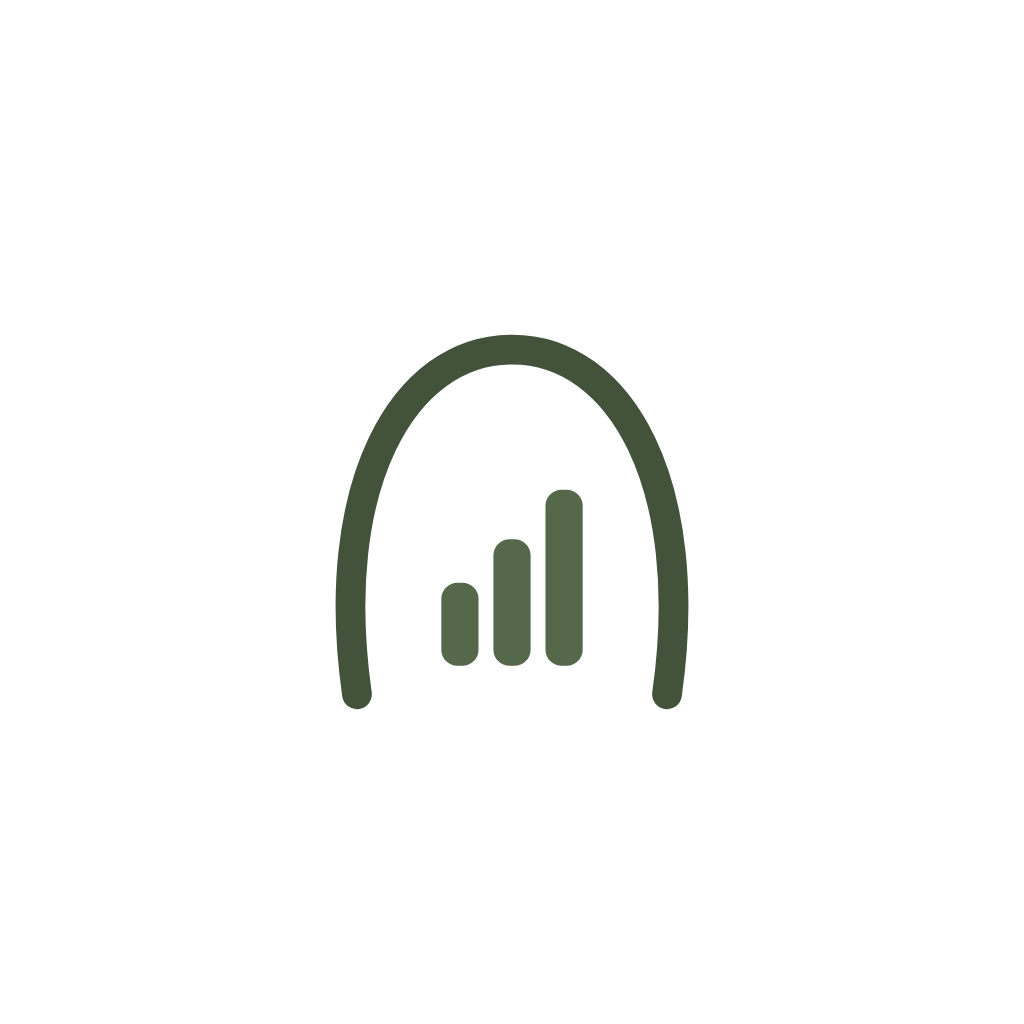
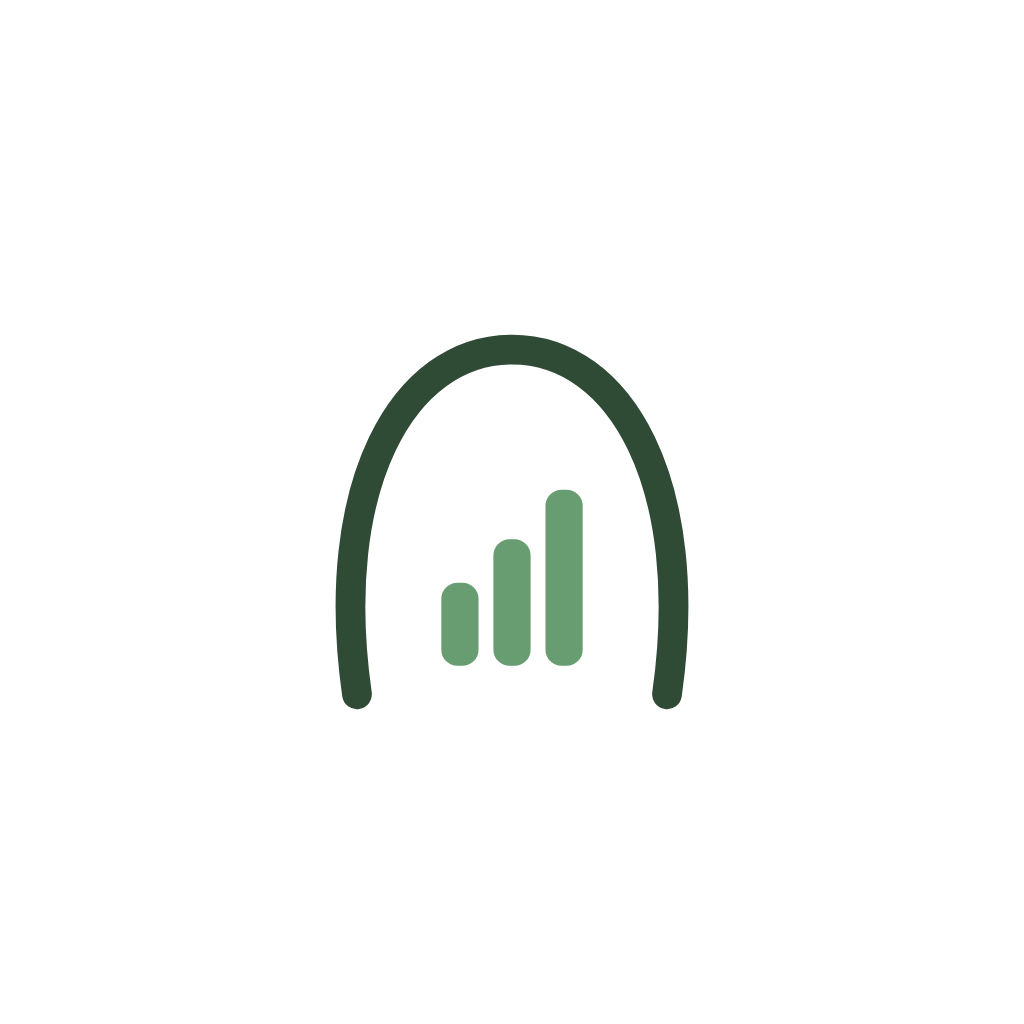
Adopter le vert #689d71 et ses deux complémentaires
Le vert demandé ne porte du texte blanc qu'à 3,16:1 : suffisant pour un
élément graphique, insuffisant pour du texte. Il garde donc les surfaces où il
se voit le plus — barre d'en-tête, anneau, barres de progression, pastilles,
dégradé — la barre passant à de l'encre foncée (4,91:1), et une seconde nuance
de la même teinte, #4a7251 (5,50:1), prend les boutons pleins et le bouton
« C'est fait ».

Les deux complémentaires sont les complémentaires partagées exactes du vert :
même saturation, même clarté, teintes à 280° et 340° contre 130°, puis
assombries juste assez pour porter du blanc à 4,6:1. Elles ne décorent pas au
hasard, chacune a un rôle : la prune #8b689c marque les jalons (objectif
atteint, records, objectifs de la période), la framboise #9b6678 marque
l'instant présent (bloc « maintenant », jour courant dans la frise, série en
cours). Un badge vert sur une ligne verte ne ressortait pas ; en framboise, si.

Les courbes gardent leur palette de séries, validée indépendamment de la
marque. Icônes, manifeste, thème et accents de l'application mobile suivent,
avec des variantes éclaircies pour le fond sombre.

Claude-Session: https://claude.ai/code/session_016KDpvmBgmwrc5gfPrziTTt

Changed region(s): [[0.4062, 0.4688, 0.5938, 0.6562]]

diff --git a/web/index.html b/web/index.html
@@ -4,7 +4,7 @@
 <meta charset="utf-8"><meta name="viewport" content="width=device-width,initial-scale=1,viewport-fit=cover">
 <title>Notesport</title>
 <meta name="description" content="Suivi d'entraînement hors ligne : corde à sauter, pompes, squats.">
-<meta name="theme-color" content="#55684a">
+<meta name="theme-color" content="#689d71">
 <link rel="manifest" href="manifest.webmanifest">
 <!-- Installation sur l'écran d'accueil iOS : Safari ignore encore le manifeste. -->
 <meta name="apple-mobile-web-app-capable" content="yes">
@@ -14,21 +14,21 @@
 <link rel="apple-touch-icon" href="icons/apple-touch-icon.png">
 <link rel="icon" href="icons/icon-192.png" sizes="192x192">
 <style>
-:root{--ink:#18231d;--muted:#65736a;--paper:#f4f6ef;--card:#fff;--line:#dde3d6;--sage-100:#e6edde;--sage-200:#cfdcc1;--sage-400:#9caf88;--green:#55684a;--green2:#e6edde;--amber:#b56c00;--red:#b23a36;--shadow:0 8px 28px #2e3b2612}*{box-sizing:border-box}body{margin:0;background:var(--paper);color:var(--ink);font:15px/1.45 system-ui,-apple-system,BlinkMacSystemFont,"Segoe UI",sans-serif}button,input,textarea{font:inherit}button{cursor:pointer;border:0;border-radius:10px;padding:.7rem .9rem;font-weight:700}.wrap{width:100%;max-width:1600px;margin:0 auto;padding:20px 0 60px}
+:root{--ink:#18231d;--muted:#65736a;--paper:#f4f6ef;--card:#fff;--line:#dbe4dc;--green:#689d71;--green-deep:#4a7251;--green2:#e6efe8;--green-ink:#16281c;--ring-track:#d3e2d6;--plum:#8b689c;--plum-soft:#f1eaf4;--berry:#9b6678;--berry-soft:#f7ecf0;--amber:#b56c00;--red:#b23a36;--shadow:0 8px 28px #2e3b2612}*{box-sizing:border-box}body{margin:0;background:var(--paper);color:var(--ink);font:15px/1.45 system-ui,-apple-system,BlinkMacSystemFont,"Segoe UI",sans-serif}button,input,textarea{font:inherit}button{cursor:pointer;border:0;border-radius:10px;padding:.7rem .9rem;font-weight:700}.wrap{width:100%;max-width:1600px;margin:0 auto;padding:20px 0 60px}
 /* Barre pleine en haut ; sous elle un degrade sauge de 0 % a 60 %, reparti
    lineairement sur toute la hauteur du document — il est donc porte par
    `.page`, dont la hauteur suit le contenu, et non par `body`. */
-.appbar{background:var(--green);color:#fff}
+.appbar{background:var(--green);color:var(--green-ink)}
 .appbar-in{max-width:1600px;margin:0 auto;padding:10px 18px;display:flex;align-items:center;gap:10px 12px;flex-wrap:wrap}
 .appbar .logo{width:34px;height:34px;flex:0 0 auto}
 .appbar-title{flex:1;min-width:0}
 .appbar-title b{display:block;font-size:1.15rem;letter-spacing:-.01em;line-height:1.15;white-space:nowrap}
 .appbar-title span{display:block;font-size:.66rem;opacity:.82;text-transform:uppercase;letter-spacing:.09em;font-weight:700;white-space:nowrap;overflow:hidden;text-overflow:ellipsis}
-.page{background:linear-gradient(180deg,rgba(156,175,136,0) 0%,rgba(156,175,136,.6) 100%)}
+.page{background:linear-gradient(180deg,rgba(104,157,113,0) 0%,rgba(104,157,113,.6) 100%)}
 .appbar .date-nav{margin:0;flex:0 0 auto}
-.appbar .date-nav button{background:#ffffff33;color:#fff;width:38px;height:38px;padding:0;font-size:1.2rem;display:flex;align-items:center;justify-content:center}
-.appbar .date-nav input{background:#ffffff24;border-color:#ffffff4d;color:#fff;padding:.5rem .6rem;font-weight:700;color-scheme:dark}
-.hero{display:flex;gap:20px;justify-content:space-between;align-items:end;margin:0 18px 22px}.eyebrow{text-transform:uppercase;font-size:.72rem;letter-spacing:.12em;font-weight:800;color:var(--green)}h1{font-size:clamp(1.8rem,4vw,2.8rem);line-height:1.05;margin:.2rem 0 .5rem}.sub{color:var(--muted);margin:0}.date-box{text-align:right}.date-nav{display:flex;gap:6px;align-items:center;margin-top:5px}.date-nav button{padding:.55rem .8rem;font-size:1.1rem;line-height:1}.date-nav input{flex:1;min-width:0;border:1px solid var(--line);background:white;border-radius:10px;padding:.6rem}.grid{display:grid;grid-template-columns:1.1fr 1.9fr;gap:18px}.grid>*,.below>*{min-width:0}.card{background:var(--card);border:1px solid var(--line);border-radius:16px;box-shadow:var(--shadow);padding:18px}h2{font-size:1.05rem;margin:0 0 14px}.summary{display:grid;grid-template-columns:repeat(2,1fr);gap:10px}.metric{border-radius:12px;background:var(--green2);padding:12px}.metric b{display:block;font-size:1.45rem;line-height:1.1}.metric span{color:var(--muted);font-size:.8rem}.progress{height:10px;border-radius:999px;background:#e8ece8;margin:16px 0 7px;overflow:hidden}.progress i{display:block;height:100%;background:var(--green);border-radius:999px;width:0;transition:width .25s}.small{font-size:.84rem;color:var(--muted)}.actions{display:flex;gap:8px;flex-wrap:wrap;margin-top:17px}.primary{background:var(--green);color:white}.secondary{background:#eef1ed;color:var(--ink)}.danger{background:#fce9e8;color:var(--red)}.table-wrap{overflow:auto}
+.appbar .date-nav button{background:#16281c1f;color:var(--green-ink);width:38px;height:38px;padding:0;font-size:1.2rem;display:flex;align-items:center;justify-content:center}
+.appbar .date-nav input{background:#ffffff5c;border:1px solid #16281c26;color:var(--green-ink);padding:.5rem .6rem;font-weight:700}
+.hero{display:flex;gap:20px;justify-content:space-between;align-items:end;margin:0 18px 22px}.eyebrow{text-transform:uppercase;font-size:.72rem;letter-spacing:.12em;font-weight:800;color:var(--green)}h1{font-size:clamp(1.8rem,4vw,2.8rem);line-height:1.05;margin:.2rem 0 .5rem}.sub{color:var(--muted);margin:0}.date-box{text-align:right}.date-nav{display:flex;gap:6px;align-items:center;margin-top:5px}.date-nav button{padding:.55rem .8rem;font-size:1.1rem;line-height:1}.date-nav input{flex:1;min-width:0;border:1px solid var(--line);background:white;border-radius:10px;padding:.6rem}.grid{display:grid;grid-template-columns:1.1fr 1.9fr;gap:18px}.grid>*,.below>*{min-width:0}.card{background:var(--card);border:1px solid var(--line);border-radius:16px;box-shadow:var(--shadow);padding:18px}h2{font-size:1.05rem;margin:0 0 14px}.summary{display:grid;grid-template-columns:repeat(2,1fr);gap:10px}.metric{border-radius:12px;background:var(--green2);padding:12px}.metric b{display:block;font-size:1.45rem;line-height:1.1}.metric span{color:var(--muted);font-size:.8rem}.progress{height:10px;border-radius:999px;background:#e8ece8;margin:16px 0 7px;overflow:hidden}.progress i{display:block;height:100%;background:var(--green);border-radius:999px;width:0;transition:width .25s}.small{font-size:.84rem;color:var(--muted)}.actions{display:flex;gap:8px;flex-wrap:wrap;margin-top:17px}.primary{background:var(--green-deep);color:white}.secondary{background:#eef1ed;color:var(--ink)}.danger{background:#fce9e8;color:var(--red)}.table-wrap{overflow:auto}
 /* --- blocs : une seule structure, empilée sur téléphone, en colonnes au-delà --- */
 /* --- resume : anneau de progression --- */
 .ring-row{display:flex;align-items:center;gap:18px}
@@ -50,16 +50,16 @@
 .brow.done .tick svg{display:block}
 .brow-main{background:none;border:0;padding:6px 0;text-align:left;font:inherit;color:inherit;min-width:0}
 .brow-time{display:block;font-weight:750}
-.brow.done .brow-time{color:var(--green)}
+.brow.done .brow-time{color:var(--green-deep)}
 .brow-sub{display:block;font-size:.8rem;color:var(--muted);white-space:nowrap;overflow:hidden;text-overflow:ellipsis}
 .chev{color:#b4c0b2;font-size:1.1rem;padding:0 2px}
-.brow.now{background:var(--green2);border-radius:14px;border-top-color:transparent;padding:12px 10px;margin:5px 0}
+.brow.now{background:var(--berry-soft);border-radius:14px;border-top-color:transparent;padding:12px 10px;margin:5px 0}
 .brow.now+.brow,.bdetail+.brow{border-top-color:transparent}
 .brow.now .brow-time{font-size:1.05rem}
-.nowbadge{display:inline-block;background:var(--green);color:#fff;font-size:.6rem;font-weight:800;
+.nowbadge{display:inline-block;background:var(--berry);color:#fff;font-size:.6rem;font-weight:800;
   padding:2px 7px;border-radius:99px;text-transform:uppercase;letter-spacing:.06em;margin-left:7px;
   vertical-align:2px;font-style:normal}
-.cta{grid-column:1/-1;background:var(--green);color:#fff;border-radius:12px;padding:12px;
+.cta{grid-column:1/-1;background:var(--green-deep);color:#fff;border-radius:12px;padding:12px;
   text-align:center;font-weight:800;margin-top:4px}
 .bdetail{background:#f5f8f2;border:1px solid var(--line);border-radius:14px;padding:12px;margin:2px 0 8px}
 .bdetail-top{display:flex;align-items:center;justify-content:space-between;gap:10px;margin-bottom:10px;flex-wrap:wrap}
@@ -76,9 +76,9 @@
 .hist-row{display:flex;flex-wrap:wrap;gap:2px 12px;align-items:baseline;padding:10px 0;border-top:1px solid var(--line)}
 .hist-row:first-child{border-top:0}
 .hist-date{font-weight:750;min-width:66px}
-.hist-blocks{font-weight:700;color:var(--green)}
+.hist-blocks{font-weight:700;color:var(--green-deep)}
 .hist-metrics{color:var(--muted);font-size:.85rem}#weight{width:104px;border:1px solid var(--line);border-radius:8px;padding:8px;text-align:center;background:white}
-.comment{margin-top:18px}.comment textarea{width:100%;min-height:75px;border:1px solid var(--line);border-radius:10px;padding:10px;resize:vertical}.below{display:grid;grid-template-columns:1fr 1fr;gap:18px;margin-top:18px}.history{width:100%;border-collapse:collapse}.history td,.history th{padding:8px 3px;border-top:1px solid var(--line);text-align:left}.history th{border:0;font-size:.75rem;text-transform:uppercase;color:var(--muted)}.week{display:grid;grid-template-columns:repeat(7,1fr);gap:6px}.day{border-radius:10px;background:#eef1ed;padding:8px 5px;text-align:center;font-size:.75rem}.day b{display:block;font-size:1rem}.day.active{background:var(--green2);color:var(--green)}dialog{border:0;border-radius:16px;padding:0;max-width:600px;width:calc(100% - 28px);box-shadow:0 20px 70px #0004}dialog::backdrop{background:#17251d77}.modal{padding:20px}.modal h2{font-size:1.3rem}.form-grid{display:grid;grid-template-columns:repeat(2,1fr);gap:12px}.form-grid label{font-size:.85rem;font-weight:700}.form-grid input{width:100%;margin-top:5px;border:1px solid var(--line);border-radius:8px;padding:8px}.note{background:#fff7e7;color:#6c4d14;padding:10px;border-radius:10px;font-size:.85rem}.footer-note{margin-top:18px;font-size:.78rem;color:var(--muted)}
+.comment{margin-top:18px}.comment textarea{width:100%;min-height:75px;border:1px solid var(--line);border-radius:10px;padding:10px;resize:vertical}.below{display:grid;grid-template-columns:1fr 1fr;gap:18px;margin-top:18px}.history{width:100%;border-collapse:collapse}.history td,.history th{padding:8px 3px;border-top:1px solid var(--line);text-align:left}.history th{border:0;font-size:.75rem;text-transform:uppercase;color:var(--muted)}.week{display:grid;grid-template-columns:repeat(7,1fr);gap:6px}.day{border-radius:10px;background:#eef1ed;padding:8px 5px;text-align:center;font-size:.75rem}.day b{display:block;font-size:1rem}.day.active{background:var(--green2);color:var(--green-deep)}.day.today{background:var(--berry-soft);color:var(--berry);font-weight:700}.metric-berry{background:var(--berry-soft)}.metric-berry b{color:var(--berry)}.metric-plum{background:var(--plum-soft)}.metric-plum b{color:var(--plum)}.reached{color:var(--plum);font-weight:700}.records td:last-child{color:var(--plum)}dialog{border:0;border-radius:16px;padding:0;max-width:600px;width:calc(100% - 28px);box-shadow:0 20px 70px #0004}dialog::backdrop{background:#17251d77}.modal{padding:20px}.modal h2{font-size:1.3rem}.form-grid{display:grid;grid-template-columns:repeat(2,1fr);gap:12px}.form-grid label{font-size:.85rem;font-weight:700}.form-grid input{width:100%;margin-top:5px;border:1px solid var(--line);border-radius:8px;padding:8px}.note{background:#fff7e7;color:#6c4d14;padding:10px;border-radius:10px;font-size:.85rem}.footer-note{margin-top:18px;font-size:.78rem;color:var(--muted)}
 /* --- identité : logo repris de l'icône de l'application --- */
 .brand{display:flex;align-items:center;gap:14px}.logo{width:52px;height:52px;flex:0 0 auto;border-radius:14px}
 /* --- onglets --- */
@@ -95,7 +95,7 @@
 .chart-empty{position:absolute;inset:0;display:flex;align-items:center;justify-content:center;color:var(--muted);font-size:.85rem;padding:0 20px;text-align:center}
 .ranges{display:flex;gap:6px;flex-wrap:wrap}
 .range{background:#eef1ed;color:var(--muted);padding:.4rem .9rem;border-radius:999px;font-size:.85rem}
-.range[aria-pressed="true"]{background:var(--green);color:white}
+.range[aria-pressed="true"]{background:var(--green-deep);color:white}
 .hero-num{font-size:2.6rem;font-weight:800;letter-spacing:-.03em;line-height:1.05;margin:2px 0}
 .stats{display:grid;grid-template-columns:repeat(3,1fr);gap:10px;margin-top:16px}
 .charts{display:grid;grid-template-columns:1fr 1fr;gap:18px;margin-top:18px}
@@ -107,7 +107,7 @@
 <body>
 <header class="appbar">
 <div class="appbar-in">
-<svg class="logo" viewBox="0 0 1024 1024" role="img" aria-label="Notesport"><path d="M262 806C214 470 336 250 512 250s298 220 250 556" fill="none" stroke="#ffffff" stroke-width="52" stroke-linecap="round" opacity=".85"/><rect x="398" y="626" width="60" height="134" rx="26" fill="#fff"/><rect x="482" y="556" width="60" height="204" rx="26" fill="#fff"/><rect x="566" y="476" width="60" height="284" rx="26" fill="#fff"/></svg>
+<svg class="logo" viewBox="0 0 1024 1024" role="img" aria-label="Notesport"><path d="M262 806C214 470 336 250 512 250s298 220 250 556" fill="none" stroke="#16281c" stroke-width="52" stroke-linecap="round" opacity=".6"/><rect x="398" y="626" width="60" height="134" rx="26" fill="#16281c"/><rect x="482" y="556" width="60" height="204" rx="26" fill="#16281c"/><rect x="566" y="476" width="60" height="284" rx="26" fill="#16281c"/></svg>
 <div class="appbar-title"><b>Notesport</b><span>corde · pompes · squats</span></div>
 <div class="date-nav" id="dateBox"><button id="prevDay" type="button" aria-label="Jour précédent">‹</button><input id="date" type="date" aria-label="Jour suivi"><button id="nextDay" type="button" aria-label="Jour suivant">›</button></div>
 </div>
@@ -131,12 +131,12 @@
 <div class="hero-num" id="pTotalJumps">0</div>
 <p class="small" id="pDelta"></p>
 <div class="stats">
-<div class="metric"><b id="pStreak">0 j</b><span>série en cours</span></div>
+<div class="metric metric-berry"><b id="pStreak">0 j</b><span>série en cours</span></div>
 <div class="metric"><b id="pConsistency">0 %</b><span>régularité</span></div>
 <div class="metric"><b id="pAverage">0</b><span>sauts / jour</span></div>
 <div class="metric"><b id="pKcal">0</b><span>kcal cumulées</span></div>
 <div class="metric"><b id="pTime">0 min</b><span>temps actif</span></div>
-<div class="metric"><b id="pTargets">0</b><span>objectifs atteints</span></div>
+<div class="metric metric-plum"><b id="pTargets">0</b><span>objectifs atteints</span></div>
 </div>
 </section>
 
@@ -337,7 +337,7 @@ function renderRing(done, total) {
   const radius = 42, circumference = 2 * Math.PI * radius;
   const ratio = total ? Math.min(1, done / total) : 0;
   $('ring').innerHTML = `<svg class="ring" viewBox="0 0 100 100" role="img" aria-label="${done} blocs sur ${total}">
-    <circle cx="50" cy="50" r="${radius}" fill="none" stroke="var(--sage-200)" stroke-width="11"/>
+    <circle cx="50" cy="50" r="${radius}" fill="none" stroke="var(--ring-track)" stroke-width="11"/>
     <circle cx="50" cy="50" r="${radius}" fill="none" stroke="var(--green)" stroke-width="11" stroke-linecap="round"
       stroke-dasharray="${circumference.toFixed(1)}" stroke-dashoffset="${(circumference * (1 - ratio)).toFixed(1)}"
       transform="rotate(-90 50 50)"/>
@@ -407,9 +407,11 @@ function renderTotals(d) {
   const pct = t.targetJumps ? Math.min(1, t.jumps / t.targetJumps) : 0;
   $('bar').style.width = (pct * 100) + '%';
   const remaining = Math.max(0, t.targetJumps - t.jumps);
-  $('completion').textContent = remaining > 0
-    ? remaining.toLocaleString('fr-FR') + ' sauts restants · ~' + t.kcal + ' kcal'
-    : 'objectif atteint 🎉 · ~' + t.kcal + ' kcal';
+  const reached = remaining <= 0 && t.targetJumps > 0;
+  $('completion').className = reached ? 'small reached' : 'small';
+  $('completion').textContent = reached
+    ? 'objectif atteint 🎉 · ~' + t.kcal + ' kcal'
+    : remaining.toLocaleString('fr-FR') + ' sauts restants · ~' + t.kcal + ' kcal';
 }
 
 /* ---------- écriture ---------- */
@@ -510,7 +512,7 @@ function renderHistory() {
     const day = data.days[k];
     const t = day ? dayTotals(day) : null;
     if (t) { totalKcal += t.kcal; totalBlocks += t.done; }
-    cells.push(`<div class="day ${t ? 'active' : ''}">${x.toLocaleDateString('fr-FR', {weekday:'short'}).slice(0, 3)}<b>${t ? t.done : '—'}</b></div>`);
+    cells.push(`<div class="day ${t ? 'active' : ''} ${k === todayISO() ? 'today' : ''}">${x.toLocaleDateString('fr-FR', {weekday:'short'}).slice(0, 3)}<b>${t ? t.done : '—'}</b></div>`);
   }
   $('week').innerHTML = cells.join('');
   $('weekSummary').textContent = totalBlocks + ' bloc(s) réalisés sur les 7 derniers jours · ~' + totalKcal + ' kcal.';

diff --git a/mobile/src/theme.ts b/mobile/src/theme.ts
@@ -1,7 +1,7 @@
 import { useColorScheme } from 'react-native';
 
 /**
- * Marque : vert sauge (#55684a en clair, éclairci en #9caf88 sur fond sombre
+ * Marque : vert #689d71 (éclairci en #8ebd96 sur fond sombre
  * pour rester au-dessus de 3:1). Les couleurs de séries, elles, restent
  * indépendantes de la marque — voir ci-dessous.
  *
@@ -17,6 +17,14 @@ const series = {
   dark: { jumps: '#3987e5', kcal: '#d95926', blocks: '#199e70', weight: '#9085e9' },
 };
 
+/**
+ * Complémentaires partagées du vert de marque (280° et 340°, même saturation et
+ * clarté) : la prune marque les jalons, la framboise l'instant présent. Elles
+ * habillent l'interface, jamais les courbes — celles-ci gardent leur palette.
+ */
+const accentLight = { plum: '#8b689c', plumSoft: '#f1eaf4', berry: '#9b6678', berrySoft: '#f7ecf0' };
+const accentDark = { plum: '#bb9ac9', plumSoft: '#2c2433', berry: '#c795a5', berrySoft: '#33242a' };
+
 const light = {
   mode: 'light' as 'light' | 'dark',
   bg: '#f4f6ef',
@@ -27,9 +35,11 @@ const light = {
   ink: '#18231d',
   inkSoft: '#42504a',
   inkMuted: '#65736a',
-  brand: '#55684a',
+  brand: '#689d71',
+  brandDeep: '#4a7251',
   brandInk: '#ffffff',
-  brandSoft: '#e6edde',
+  brandSoft: '#e6efe8',
+  ...accentLight,
   danger: '#b23a36',
   dangerSoft: '#fbe9e8',
   grid: '#e9ede9',
@@ -49,9 +59,11 @@ const dark: Theme = {
   ink: '#f1f4ee',
   inkSoft: '#c3c8c1',
   inkMuted: '#98a09a',
-  brand: '#9caf88',
-  brandInk: '#10160c',
-  brandSoft: '#26301f',
+  brand: '#8ebd96',
+  brandDeep: '#8ebd96',
+  brandInk: '#0c1a10',
+  brandSoft: '#22301f',
+  ...accentDark,
   danger: '#e66767',
   dangerSoft: '#33201f',
   grid: '#2a2e2b',

diff --git a/mobile/src/screens/ProgressScreen.tsx b/mobile/src/screens/ProgressScreen.tsx
@@ -137,7 +137,7 @@ export function ProgressScreen() {
               <Metric
                 value={`${streak} j`}
                 label="série en cours"
-                accent={streak > 0 ? theme.brand : undefined}
+                accent={streak > 0 ? theme.berry : undefined}
                 hint={best > 0 ? `record ${best} j` : undefined}
               />
               <Metric value={`${summary.consistency} %`} label="régularité" hint={`${summary.activeDays} j actifs`} />
@@ -146,7 +146,7 @@ export function ProgressScreen() {
             <Row style={{ marginTop: spacing.sm, gap: spacing.sm }}>
               <Metric value={formatNumber(summary.totalKcal)} label="kcal cumulées" accent={theme.series.kcal} />
               <Metric value={formatDuration(summary.totalSeconds)} label="temps actif" />
-              <Metric value={`${summary.targetHitDays}`} label="objectifs atteints" />
+              <Metric value={`${summary.targetHitDays}`} label="objectifs atteints" accent={theme.plum} />
             </Row>
           </Card>
 

diff --git a/mobile/src/components/ui.tsx b/mobile/src/components/ui.tsx
@@ -123,7 +123,7 @@ export function Chip({
         {
           paddingHorizontal: compact ? spacing.md : spacing.lg,
           paddingVertical: compact ? 6 : spacing.sm,
-          backgroundColor: selected ? theme.brand : theme.surfaceAlt,
+          backgroundColor: selected ? theme.brandDeep : theme.surfaceAlt,
           opacity: pressed ? 0.75 : 1,
         },
       ]}>
@@ -150,7 +150,7 @@ type ButtonProps = {
 export function Button({ label, onPress, variant = 'secondary', disabled, busy, style }: ButtonProps) {
   const theme = useTheme();
   const palette = {
-    primary: { bg: theme.brand, fg: theme.brandInk },
+    primary: { bg: theme.brandDeep, fg: theme.brandInk },
     secondary: { bg: theme.surfaceAlt, fg: theme.ink },
     danger: { bg: theme.dangerSoft, fg: theme.danger },
   }[variant];

diff --git a/mobile/src/screens/TodayScreen.tsx b/mobile/src/screens/TodayScreen.tsx
@@ -136,8 +136,8 @@ export function TodayScreen() {
         </Row>
 
         {nextBlock ? (
-          <View style={[styles.nextHint, { backgroundColor: theme.brandSoft }]}>
-            <Text style={[typography.small, { color: theme.brand, fontWeight: '700' }]}>
+          <View style={[styles.nextHint, { backgroundColor: theme.berrySoft }]}>
+            <Text style={[typography.small, { color: theme.berry, fontWeight: '700' }]}>
               Prochain bloc · {displayTime(entryFor(day, nextBlock), nextBlock)}
             </Text>
             <Text style={[typography.small, { color: theme.inkSoft }]}>{describeEffort(nextBlock)}</Text>

diff --git a/web/sw.js b/web/sw.js
@@ -8,7 +8,7 @@
  * localStorage du navigateur et ne sont jamais mises en cache ni transmises.
  */
 
-const VERSION = 'notesport-v5';
+const VERSION = 'notesport-v6';
 const SHELL = [
   './',
   './index.html',

diff --git a/README.md b/README.md
@@ -77,9 +77,20 @@ plutôt que par des attributs `onchange` inline.
   en cours est mis en avant avec un bouton « C'est fait ». Un anneau de
   progression remplace les quatre tuiles du résumé. Au repos, la page ne
   contient plus qu'un seul champ de saisie (le poids).
-- **Identité sauge** : marque `#55684a`, barre d'en-tête pleine, et sous elle un
-  dégradé sauge linéaire de 0 % à 60 % sur toute la hauteur du document. Les
-  couleurs des courbes restent celles, validées, de la palette de séries.
+- **Identité** : vert `#689d71`, barre d'en-tête pleine, et sous elle un dégradé
+  du même vert, linéaire de 0 % à 60 % sur toute la hauteur du document.
+
+  | Rôle | Couleur | Emploi |
+  |---|---|---|
+  | Vert de marque | `#689d71` | barre, anneau, barres de progression, pastilles, dégradé |
+  | Vert profond | `#4a7251` | toute surface pleine portant du texte blanc (il ne porte le blanc qu'à 3,16:1, d'où cette seconde nuance à 5,50:1) |
+  | Prune | `#8b689c` | les jalons : objectif atteint, records |
+  | Framboise | `#9b6678` | l'instant présent : bloc « maintenant », jour courant |
+
+  Prune et framboise sont les **complémentaires partagées** exactes du vert
+  (280° et 340° contre 130°, même saturation et même clarté), ajustées pour
+  porter du blanc à 4,6:1. Elles habillent l'interface et **jamais les
+  courbes**, qui gardent leur palette de séries validée séparément.
 
 - **Seuls les blocs cochés « Fait » comptent.** Le résultat du jour et
   l'historique ignorent désormais les répétitions saisies sans avoir coché la
